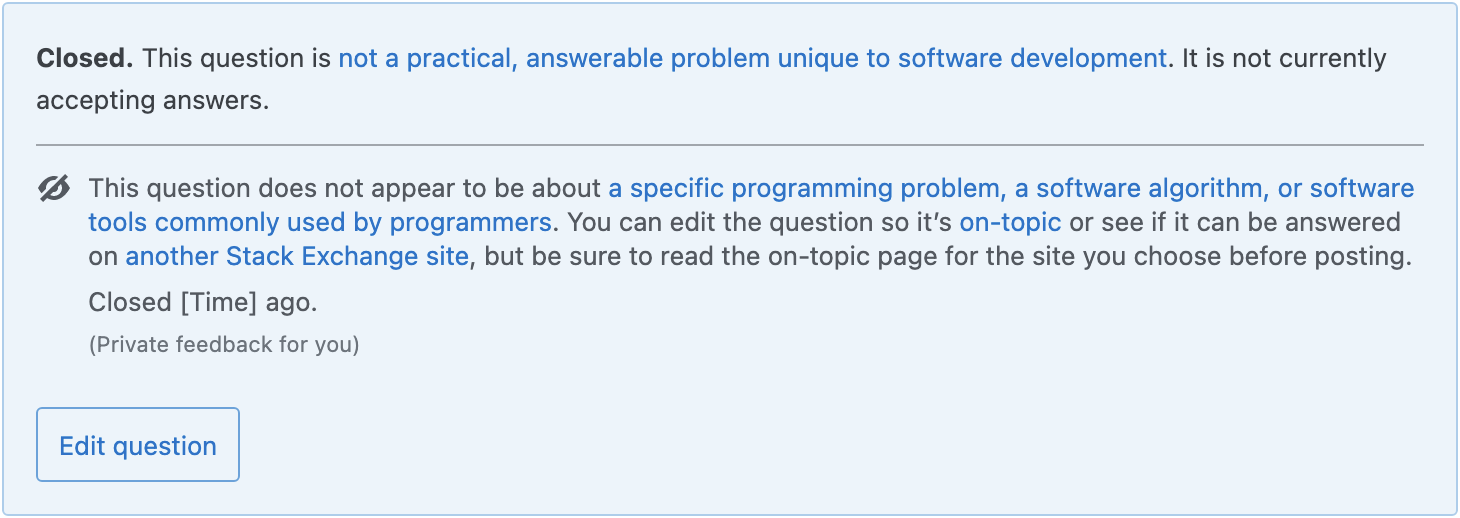
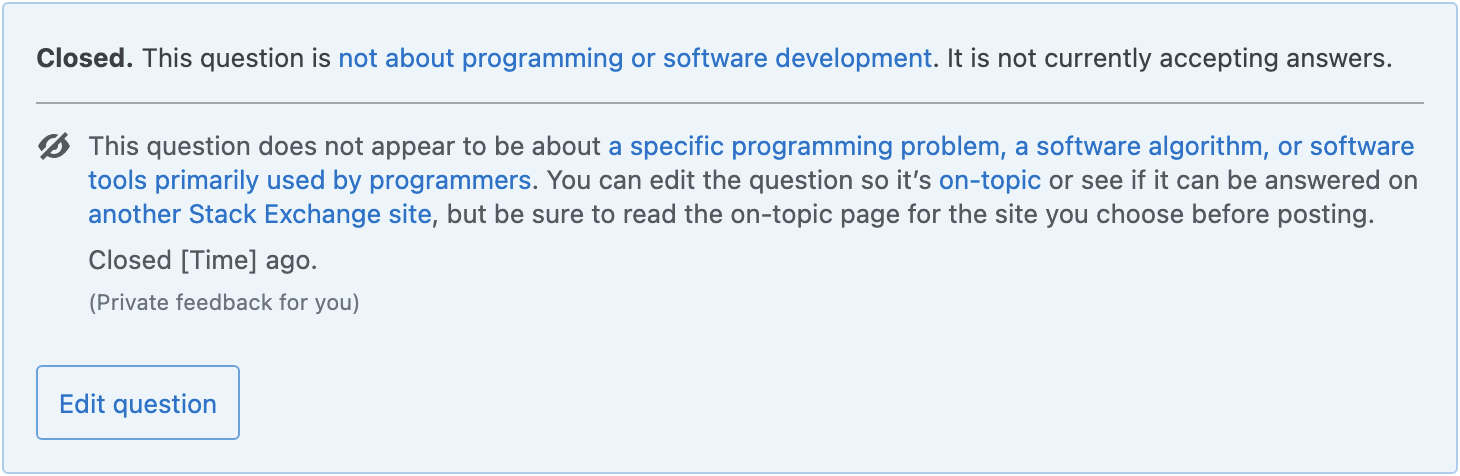
Adopted "primarily" instead of "commonly"; reverted description

diff --git a/builders/html-output/mock-private-banner-rendered.html b/builders/html-output/mock-private-banner-rendered.html
@@ -31,7 +31,7 @@
             <div class="d-flex fw-nowrap">
                 <div class="flex--item wmn0 fl1 lh-lg">
                     <div class="flex--item fl1 lh-lg">
-                        <strong>Closed.</strong> This question is <a href="https://stackoverflow.com/help/closed-questions">not a practical, answerable problem unique to software development</a>. It is not currently accepting answers.
+                        <strong>Closed.</strong> This question is <a href="https://stackoverflow.com/help/closed-questions">not about programming or software development</a>. It is not currently accepting answers.
                     </div>
                 </div>
             </div>
@@ -46,7 +46,7 @@
             </div>
             <div class="flex--item lh-md">
                 <p class="mb0">
-                    This question does not appear to be about <a href="https://stackoverflow.com/help/on-topic">a specific programming problem, a software algorithm, or software tools commonly used by programmers</a>. You can edit the question so it’s <a href="https://stackoverflow.com/help/on-topic">on-topic</a> or see if it can be answered on <a href="https://stackexchange.com/sites">another Stack Exchange site</a>, but be sure to read the on-topic page for the site you choose before posting.
+                    This question does not appear to be about <a href="https://stackoverflow.com/help/on-topic">a specific programming problem, a software algorithm, or software tools primarily used by programmers</a>. You can edit the question so it’s <a href="https://stackoverflow.com/help/on-topic">on-topic</a> or see if it can be answered on <a href="https://stackexchange.com/sites">another Stack Exchange site</a>, but be sure to read the on-topic page for the site you choose before posting.
                 </p>
                 <p class="mb0 mt6">Closed <span title="2022-05-12 17:33:51Z"
                                                 class="relativetime">[Time] ago</span>.

diff --git a/builders/html-output/mock-privileged-banner-rendered.html b/builders/html-output/mock-privileged-banner-rendered.html
@@ -31,7 +31,7 @@
             <div class="d-flex fw-nowrap">
                 <div class="flex--item wmn0 fl1 lh-lg">
                     <div class="flex--item fl1 lh-lg">
-                        <strong>Closed.</strong> This question is <a href="https://stackoverflow.com/help/closed-questions">not a practical, answerable problem unique to software development</a>. It is not currently accepting answers.
+                        <strong>Closed.</strong> This question is <a href="https://stackoverflow.com/help/closed-questions">not about programming or software development</a>. It is not currently accepting answers.
                     </div>
                 </div>
             </div>
@@ -46,7 +46,7 @@
             </div>
             <div class="flex--item lh-md">
                 <p class="mb0">
-                    This question does not appear to be about <a href="https://stackoverflow.com/help/on-topic">a specific programming problem, a software algorithm, or software tools commonly used by programmers</a>. If you believe the question is on-topic on <a href="https://stackexchange.com/sites">another Stack Exchange site</a> you can leave a comment to explain where the question may be able to be answered.
+                    This question does not appear to be about <a href="https://stackoverflow.com/help/on-topic">a specific programming problem, a software algorithm, or software tools primarily used by programmers</a>. If you believe the question is on-topic on <a href="https://stackexchange.com/sites">another Stack Exchange site</a> you can leave a comment to explain where the question may be able to be answered.
                 </p>
                 <p class="mb0 mt6">Closed <span title="2022-05-12 17:33:51Z"
                                                 class="relativetime">[Time] ago</span>

diff --git a/builders/html-output/mock-close-dialogue-rendered.html b/builders/html-output/mock-close-dialogue-rendered.html
@@ -64,10 +64,10 @@
                                        for="siteSpecificCloseReasonId-4-">
 
                                     <span class="js-action-name">
-                                        Not a practical, answerable problem unique to software development
+                                        Not about programming or software development
                                     </span>
                                     <p class="s-description">
-                                        This question does not appear to be about <a href="https://stackoverflow.com/help/on-topic">a specific programming problem, a software algorithm, or software tools commonly used by programmers</a>.
+                                        This question does not appear to be about <a href="https://stackoverflow.com/help/on-topic">a specific programming problem, a software algorithm, or software tools primarily used by programmers</a>.
                                     </p>
                                 </label>
                             </div>

diff --git a/builders/html-output/mock-public-banner-rendered.html b/builders/html-output/mock-public-banner-rendered.html
@@ -31,7 +31,7 @@
             <div class="d-flex fw-nowrap">
                 <div class="flex--item wmn0 fl1 lh-lg">
                     <div class="flex--item fl1 lh-lg">
-                        <strong>Closed.</strong> This question is <a href="https://stackoverflow.com/help/closed-questions">not a practical, answerable problem unique to software development</a>. It is not currently accepting answers.
+                        <strong>Closed.</strong> This question is <a href="https://stackoverflow.com/help/closed-questions">not about programming or software development</a>. It is not currently accepting answers.
                     </div>
                 </div>
             </div>

diff --git a/builders/main.py b/builders/main.py
@@ -17,8 +17,8 @@ class RenderConfig:
 
 
 def build_and_validate_reasons() -> dict:
-    reason = 'Not a practical, answerable problem unique to software development'
-    topic = 'This question does not appear to be about [a specific programming problem, a software algorithm, or software tools commonly used by programmers](/help/on-topic)'
+    reason = 'Not about programming or software development'
+    topic = 'This question does not appear to be about [a specific programming problem, a software algorithm, or software tools primarily used by programmers](/help/on-topic)'
     another_site = '[another Stack Exchange site](https://stackexchange.com/sites)'
 
     reasons = {
@@ -117,21 +117,21 @@ def main() -> None:
             rendered_html=(
                     html_output_folder / 'mock-private-banner-rendered.html'
             ),
-            output_img_size=(694 + (pbm_px * 2), 223 + (pbm_px * 2))
+            output_img_size=(694 + (pbm_px * 2), 202 + (pbm_px * 2))
         ),
         'privileged_banner': RenderConfig(
             html_template=templates_folder / 'mock-privileged-banner.html',
             rendered_html=(
                     html_output_folder / 'mock-privileged-banner-rendered.html'
             ),
-            output_img_size=(694 + (pbm_px * 2), 223 + (pbm_px * 2))
+            output_img_size=(694 + (pbm_px * 2), 202 + (pbm_px * 2))
         ),
         'public_banner': RenderConfig(
             html_template=templates_folder / 'mock-public-banner.html',
             rendered_html=(
                     html_output_folder / 'mock-public-banner-rendered.html'
             ),
-            output_img_size=(694 + (pbm_px * 2), 169 + (pbm_px * 2))
+            output_img_size=(694 + (pbm_px * 2), 148 + (pbm_px * 2))
         )
     }
     # Render Templates

diff --git a/answer.md b/answer.md
@@ -14,11 +14,11 @@ If there are issues that need to be addressed please leave a comment so the char
 -->
 | Field | (Rendered) Markdown | Markdown Length |
 |:---|:---|:---|
-| Brief Description | Not a practical, answerable problem unique to software development | 66 |
-| Usage guidance | This question does not appear to be about [a specific programming problem, a software algorithm, or software tools commonly used by programmers](/help/on-topic). | 161 |
-| Post notice close description | **Closed.** This question is [not a practical, answerable problem unique to software development](/help/closed-questions). It is not currently accepting answers. | 161 |
-| Post owner guidance | This question does not appear to be about [a specific programming problem, a software algorithm, or software tools commonly used by programmers](/help/on-topic). You can edit the question so it’s [on-topic](/help/on-topic) or see if it can be answered on [another Stack Exchange site](https://stackexchange.com/sites), but be sure to read the on-topic page for the site you choose before posting. | 396 |
-| Privileged user guidance | This question does not appear to be about [a specific programming problem, a software algorithm, or software tools commonly used by programmers](/help/on-topic). If you believe the question is on-topic on [another Stack Exchange site](https://stackexchange.com/sites) you can leave a comment to explain where the question may be able to be answered. | 349 |
+| Brief Description | Not about programming or software development | 45 |
+| Usage guidance | This question does not appear to be about [a specific programming problem, a software algorithm, or software tools primarily used by programmers](/help/on-topic). | 162 |
+| Post notice close description | **Closed.** This question is [not about programming or software development](/help/closed-questions). It is not currently accepting answers. | 140 |
+| Post owner guidance | This question does not appear to be about [a specific programming problem, a software algorithm, or software tools primarily used by programmers](/help/on-topic). You can edit the question so it’s [on-topic](/help/on-topic) or see if it can be answered on [another Stack Exchange site](https://stackexchange.com/sites), but be sure to read the on-topic page for the site you choose before posting. | 397 |
+| Privileged user guidance | This question does not appear to be about [a specific programming problem, a software algorithm, or software tools primarily used by programmers](/help/on-topic). If you believe the question is on-topic on [another Stack Exchange site](https://stackexchange.com/sites) you can leave a comment to explain where the question may be able to be answered. | 350 |
 
 ---
 

diff --git a/builders/md-output/table.md b/builders/md-output/table.md
@@ -1,7 +1,7 @@
 | Field | (Rendered) Markdown | Markdown Length |
 |:---|:---|:---|
-| Brief Description | Not a practical, answerable problem unique to software development | 66 |
-| Usage guidance | This question does not appear to be about [a specific programming problem, a software algorithm, or software tools commonly used by programmers](/help/on-topic). | 161 |
-| Post notice close description | **Closed.** This question is [not a practical, answerable problem unique to software development](/help/closed-questions). It is not currently accepting answers. | 161 |
-| Post owner guidance | This question does not appear to be about [a specific programming problem, a software algorithm, or software tools commonly used by programmers](/help/on-topic). You can edit the question so it’s [on-topic](/help/on-topic) or see if it can be answered on [another Stack Exchange site](https://stackexchange.com/sites), but be sure to read the on-topic page for the site you choose before posting. | 396 |
-| Privileged user guidance | This question does not appear to be about [a specific programming problem, a software algorithm, or software tools commonly used by programmers](/help/on-topic). If you believe the question is on-topic on [another Stack Exchange site](https://stackexchange.com/sites) you can leave a comment to explain where the question may be able to be answered. | 349 |
+| Brief Description | Not about programming or software development | 45 |
+| Usage guidance | This question does not appear to be about [a specific programming problem, a software algorithm, or software tools primarily used by programmers](/help/on-topic). | 162 |
+| Post notice close description | **Closed.** This question is [not about programming or software development](/help/closed-questions). It is not currently accepting answers. | 140 |
+| Post owner guidance | This question does not appear to be about [a specific programming problem, a software algorithm, or software tools primarily used by programmers](/help/on-topic). You can edit the question so it’s [on-topic](/help/on-topic) or see if it can be answered on [another Stack Exchange site](https://stackexchange.com/sites), but be sure to read the on-topic page for the site you choose before posting. | 397 |
+| Privileged user guidance | This question does not appear to be about [a specific programming problem, a software algorithm, or software tools primarily used by programmers](/help/on-topic). If you believe the question is on-topic on [another Stack Exchange site](https://stackexchange.com/sites) you can leave a comment to explain where the question may be able to be answered. | 350 |
